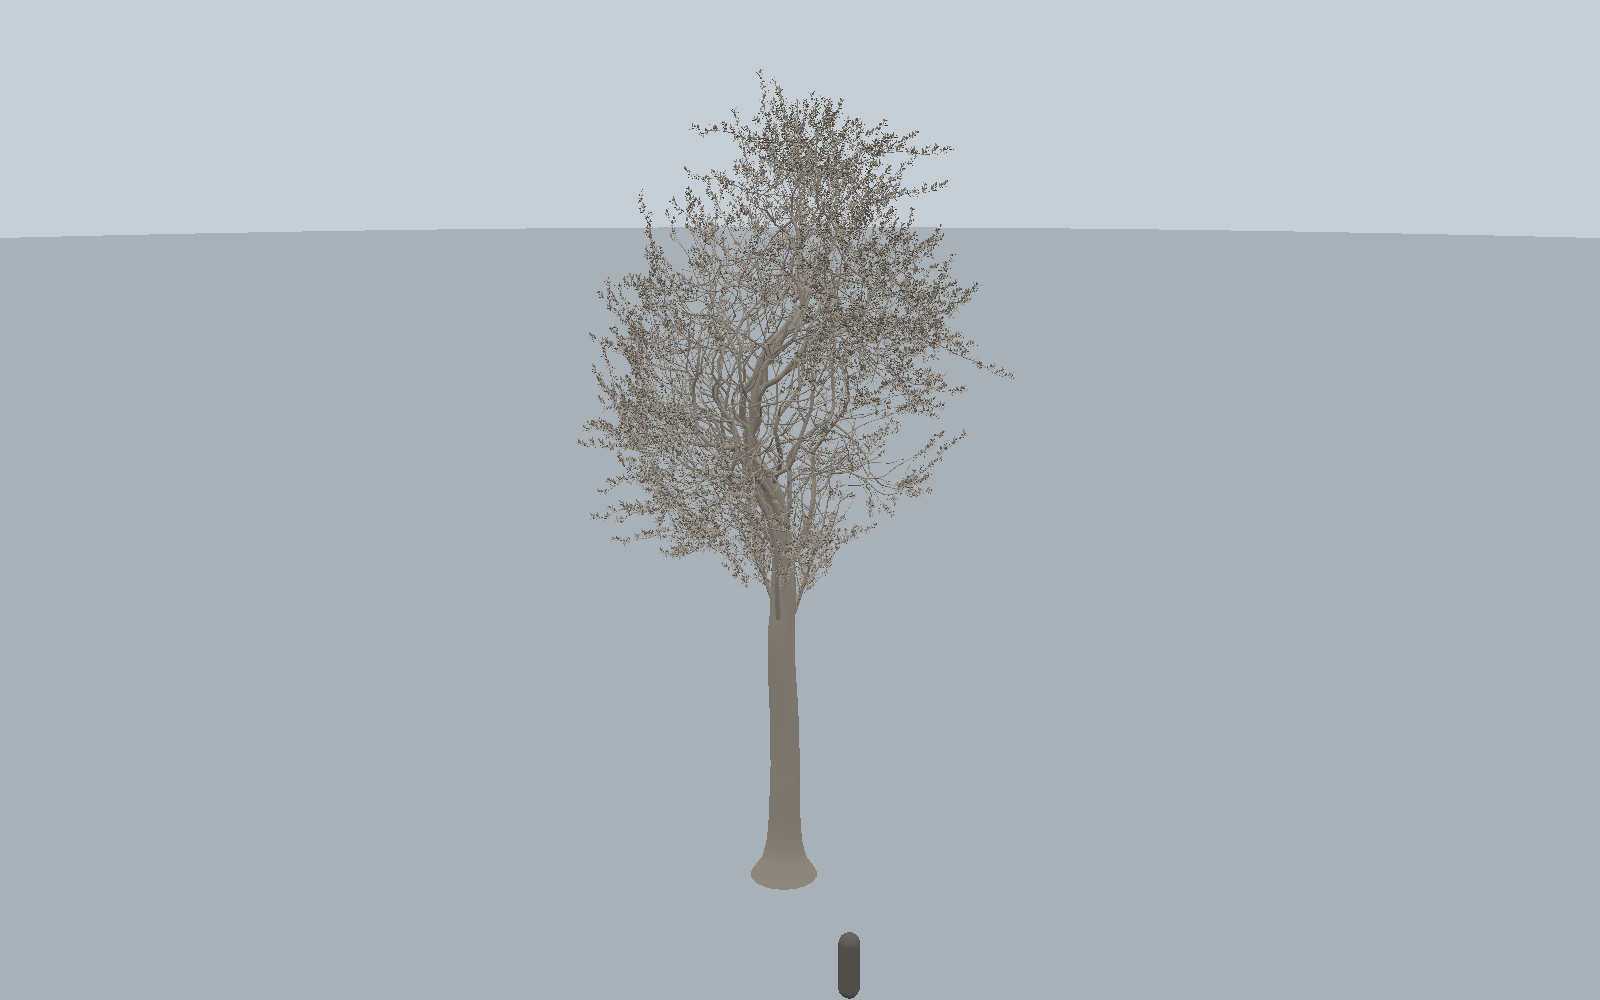
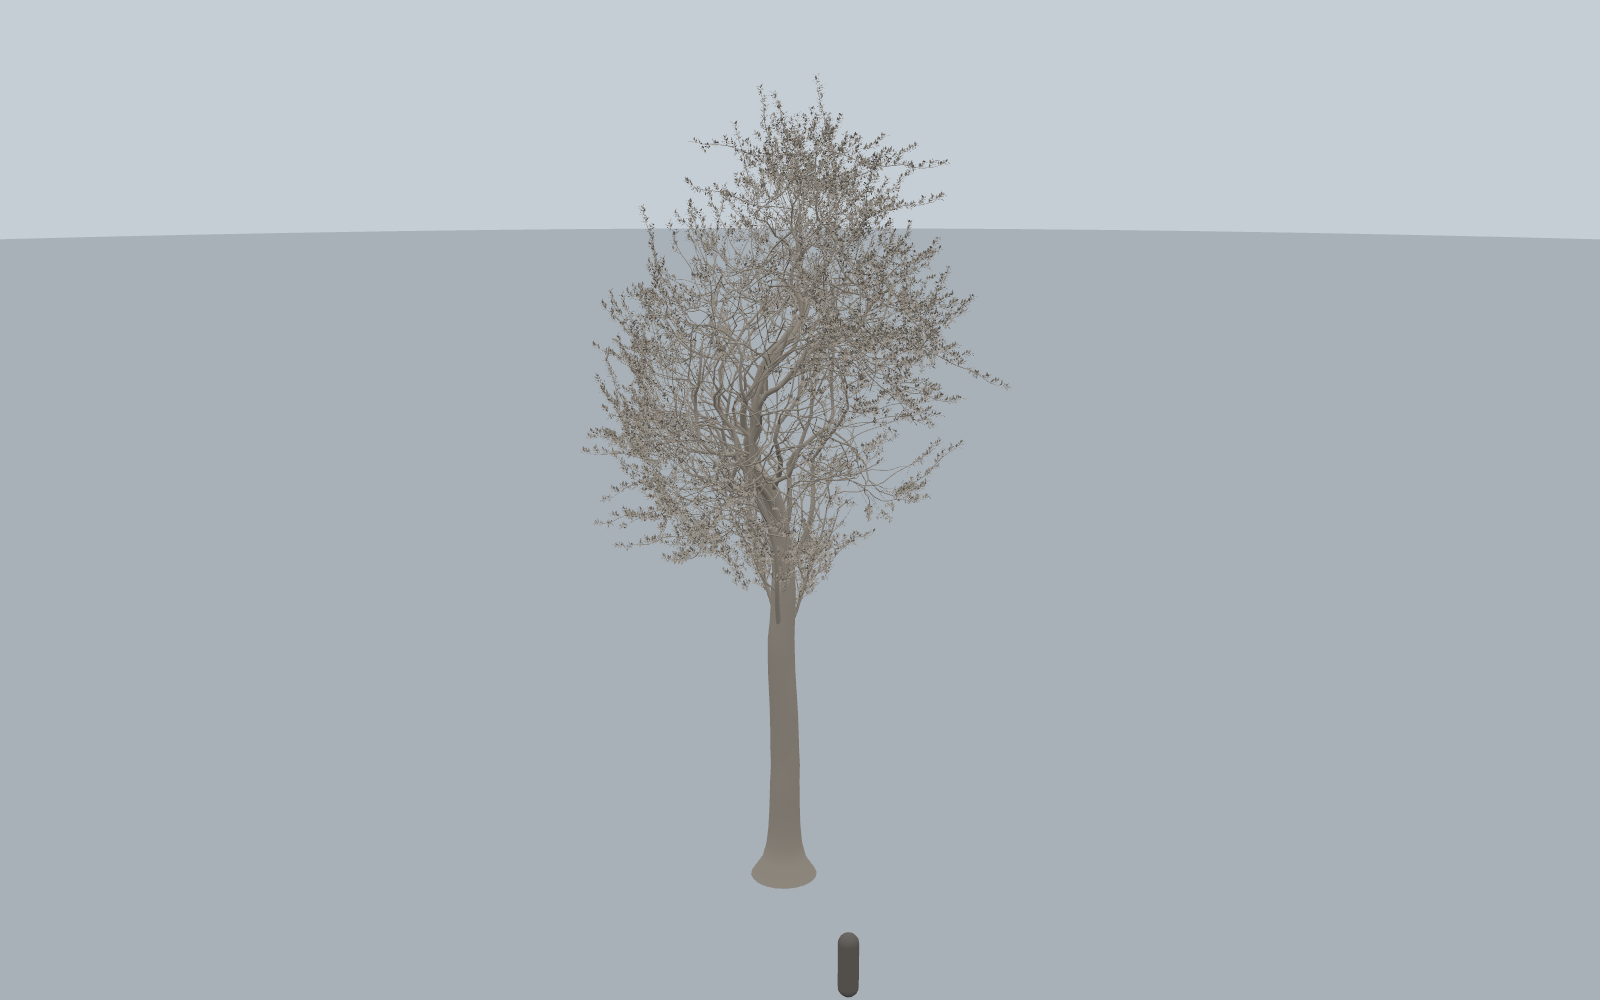
test: re-pin leaf words, the palm's pins and the clay room's still
The grown leaf box writes every leaf in new words, so the species
digests, the oak's and birch's identity and catalogue pins and the
palm's catalogue pins move (Generator evolution, fn-183). The clay
room's still (fn-24's ordinary at seed 7) is re-rendered from the
test's own frame and pose: its tree moved for the first time since the
still was taken, which moved 0.22 of a channel in the flat paint the
test reads.

Changed region(s): [[0.375, 0.093, 0.625, 0.589]]

diff --git a/crates/telperion-core/src/suite/identity.rs b/crates/telperion-core/src/suite/identity.rs
@@ -229,9 +229,9 @@ const PINS: [Pin; 4] = [
             -0.09600000083446503,
             -15.279694412363863,
         ],
-        max: [14.654147472608283, 24.860170561829303, 15.298135150547388],
+        max: [14.654147472608283, 24.860410887757038, 15.298135150547388],
         skeleton: 8352873281510200700,
-        placement: 1080443389251708555,
+        placement: 9850640269237129093,
         element: 4207404028969543471,
     },
     Pin {
@@ -263,7 +263,7 @@ const PINS: [Pin; 4] = [
         min: [-7.390350341796875, -0.07199999690055847, -7.914402484893799],
         max: [8.12118688650846, 17.40048599243164, 6.267824172973633],
         skeleton: 7062016405819824468,
-        placement: 4796130256372165385,
+        placement: 8148347474598104036,
         element: 1566806128915370638,
     },
 ];
